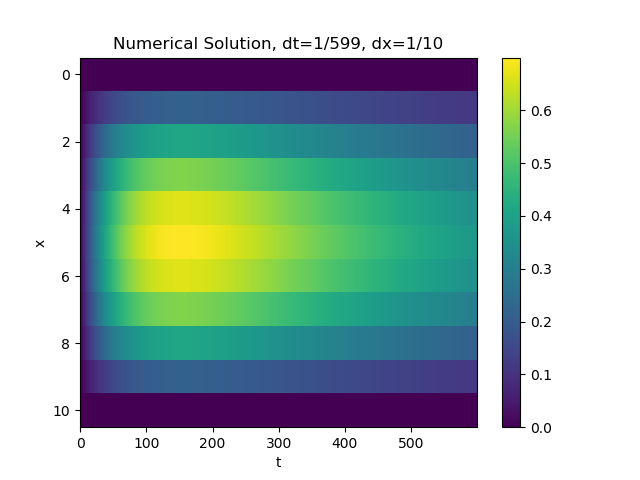
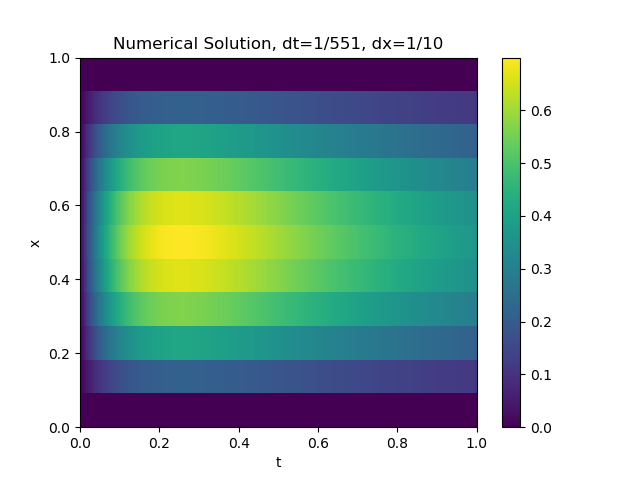
change axis labels

diff --git a/main.py b/main.py
@@ -13,7 +13,7 @@ import sys
 time_discretization = 'forward'
 
 # Number of t-steps
-nt = 600
+nt = 552
 dt = 1/(nt-1)
 
 # Number of x-steps
@@ -94,7 +94,7 @@ for n in range(len(tt)):
 
 # Heatmap of numerical solution
 fig, ax = plt.subplots()
-im = ax.imshow(U, aspect='auto')
+im = ax.imshow(U, aspect='auto', extent=[0, 1, 0, 1])
 ax.set(xlabel='t', ylabel='x', title='Numerical Solution, dt=1/{}, dx=1/{}'.format(nt-1, nx-1))
 fig.colorbar(im)
 fig.savefig("heatmap.png")
